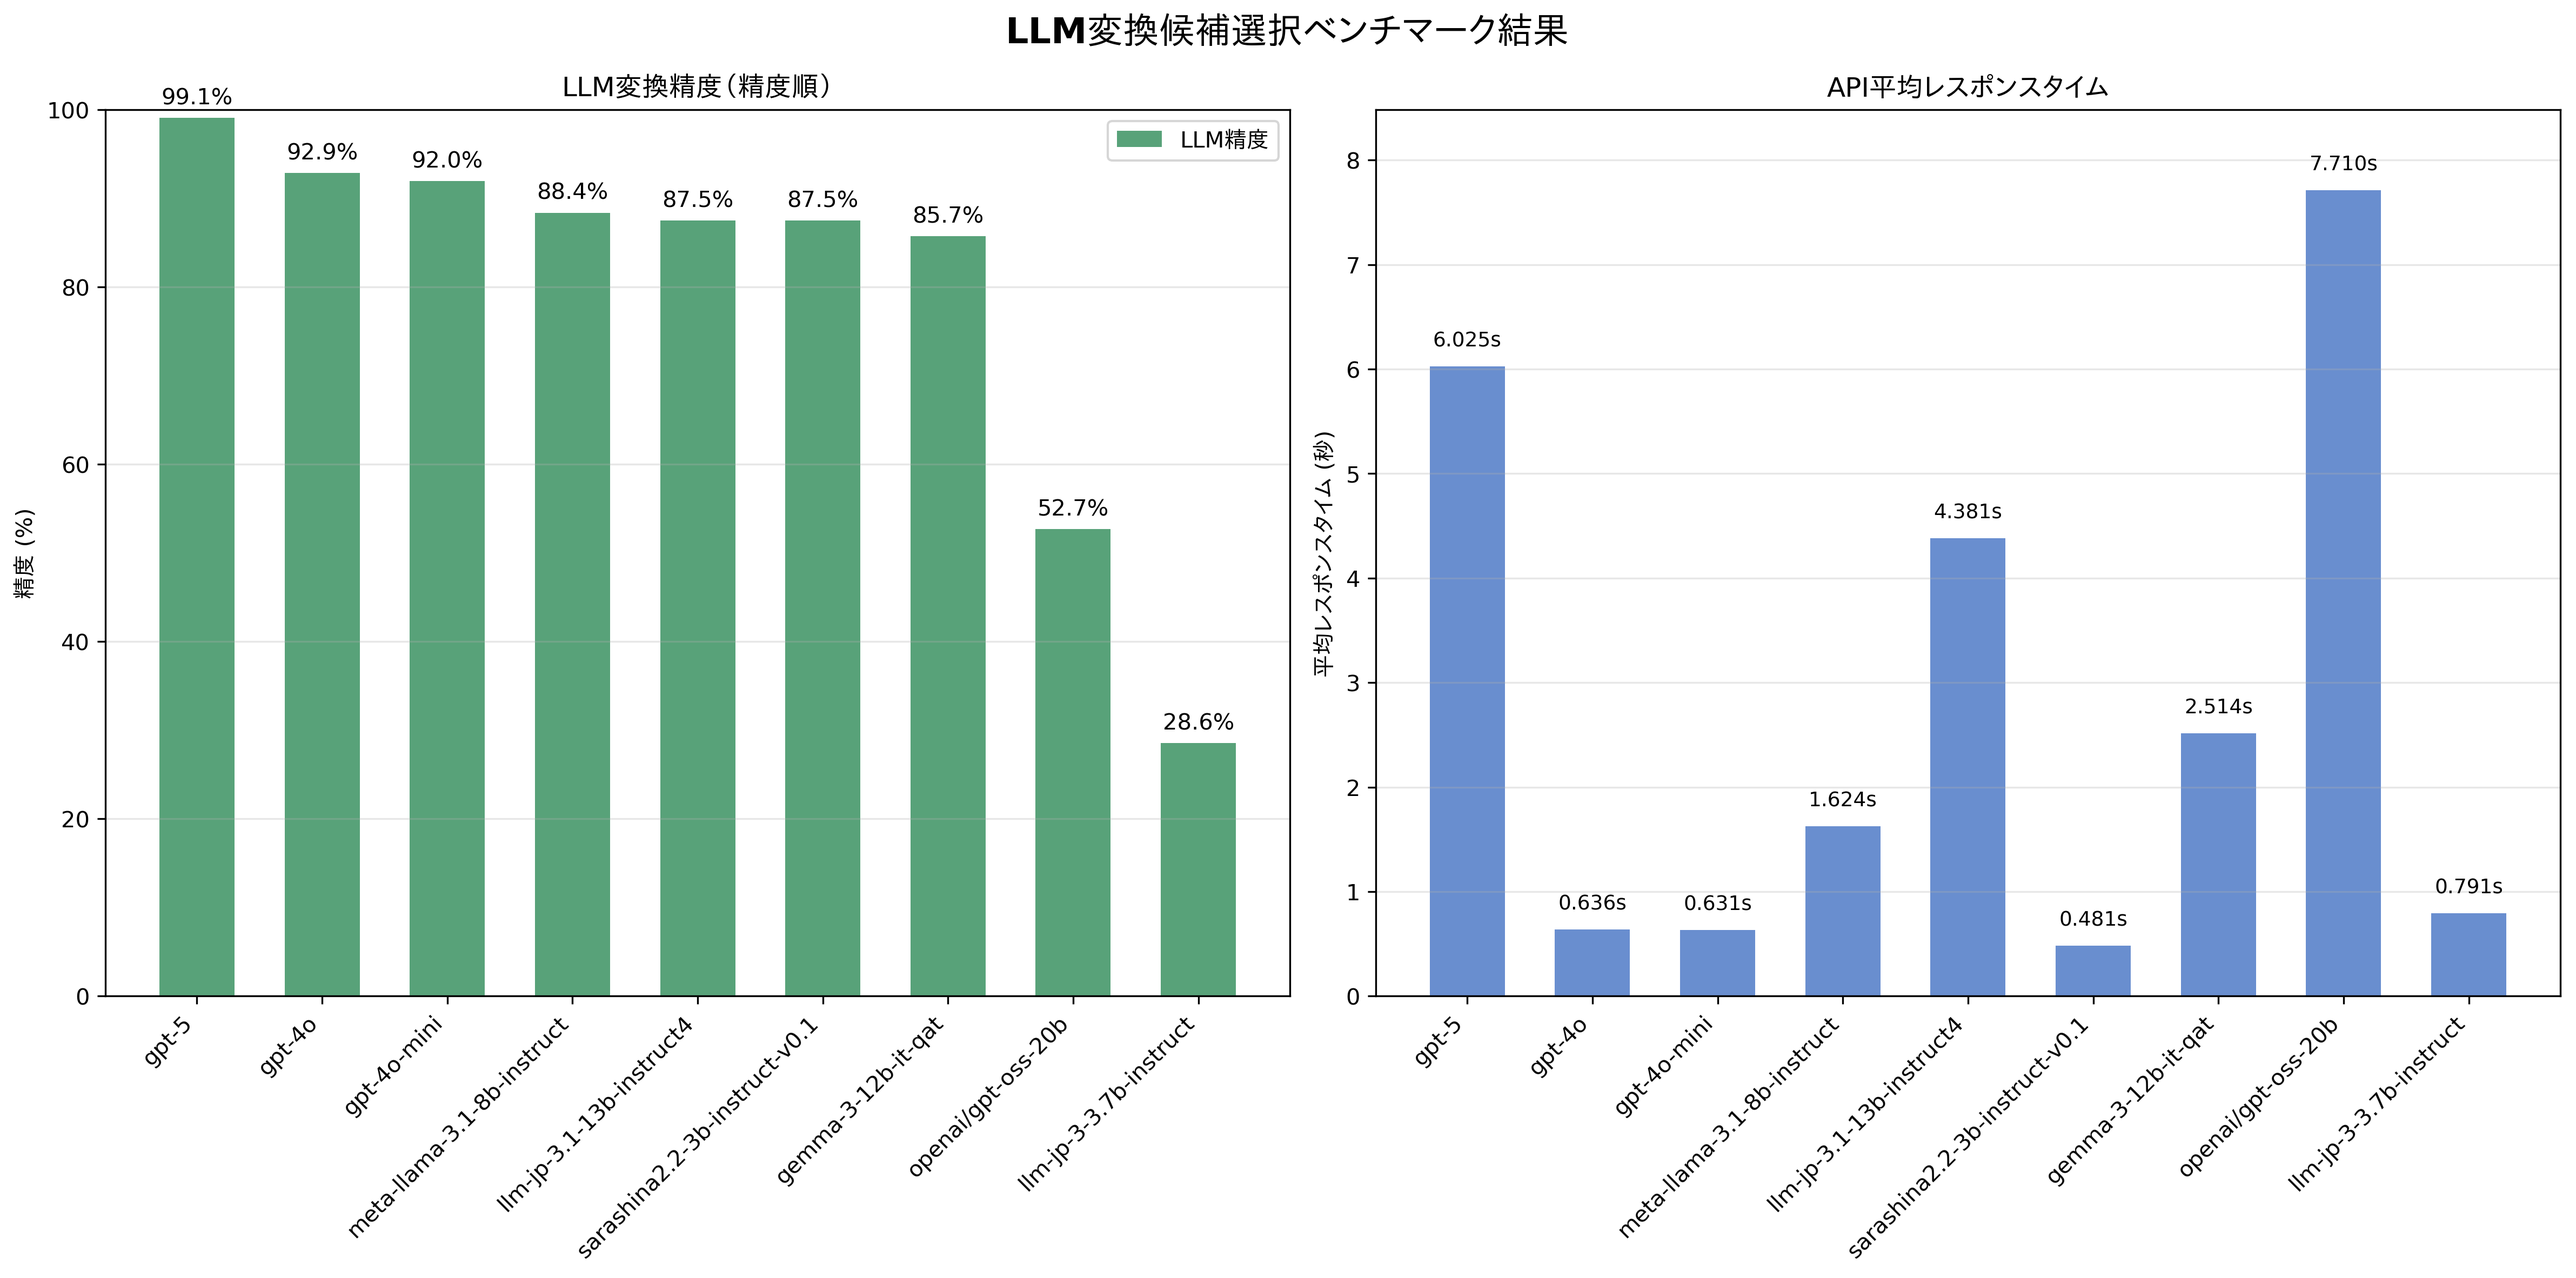
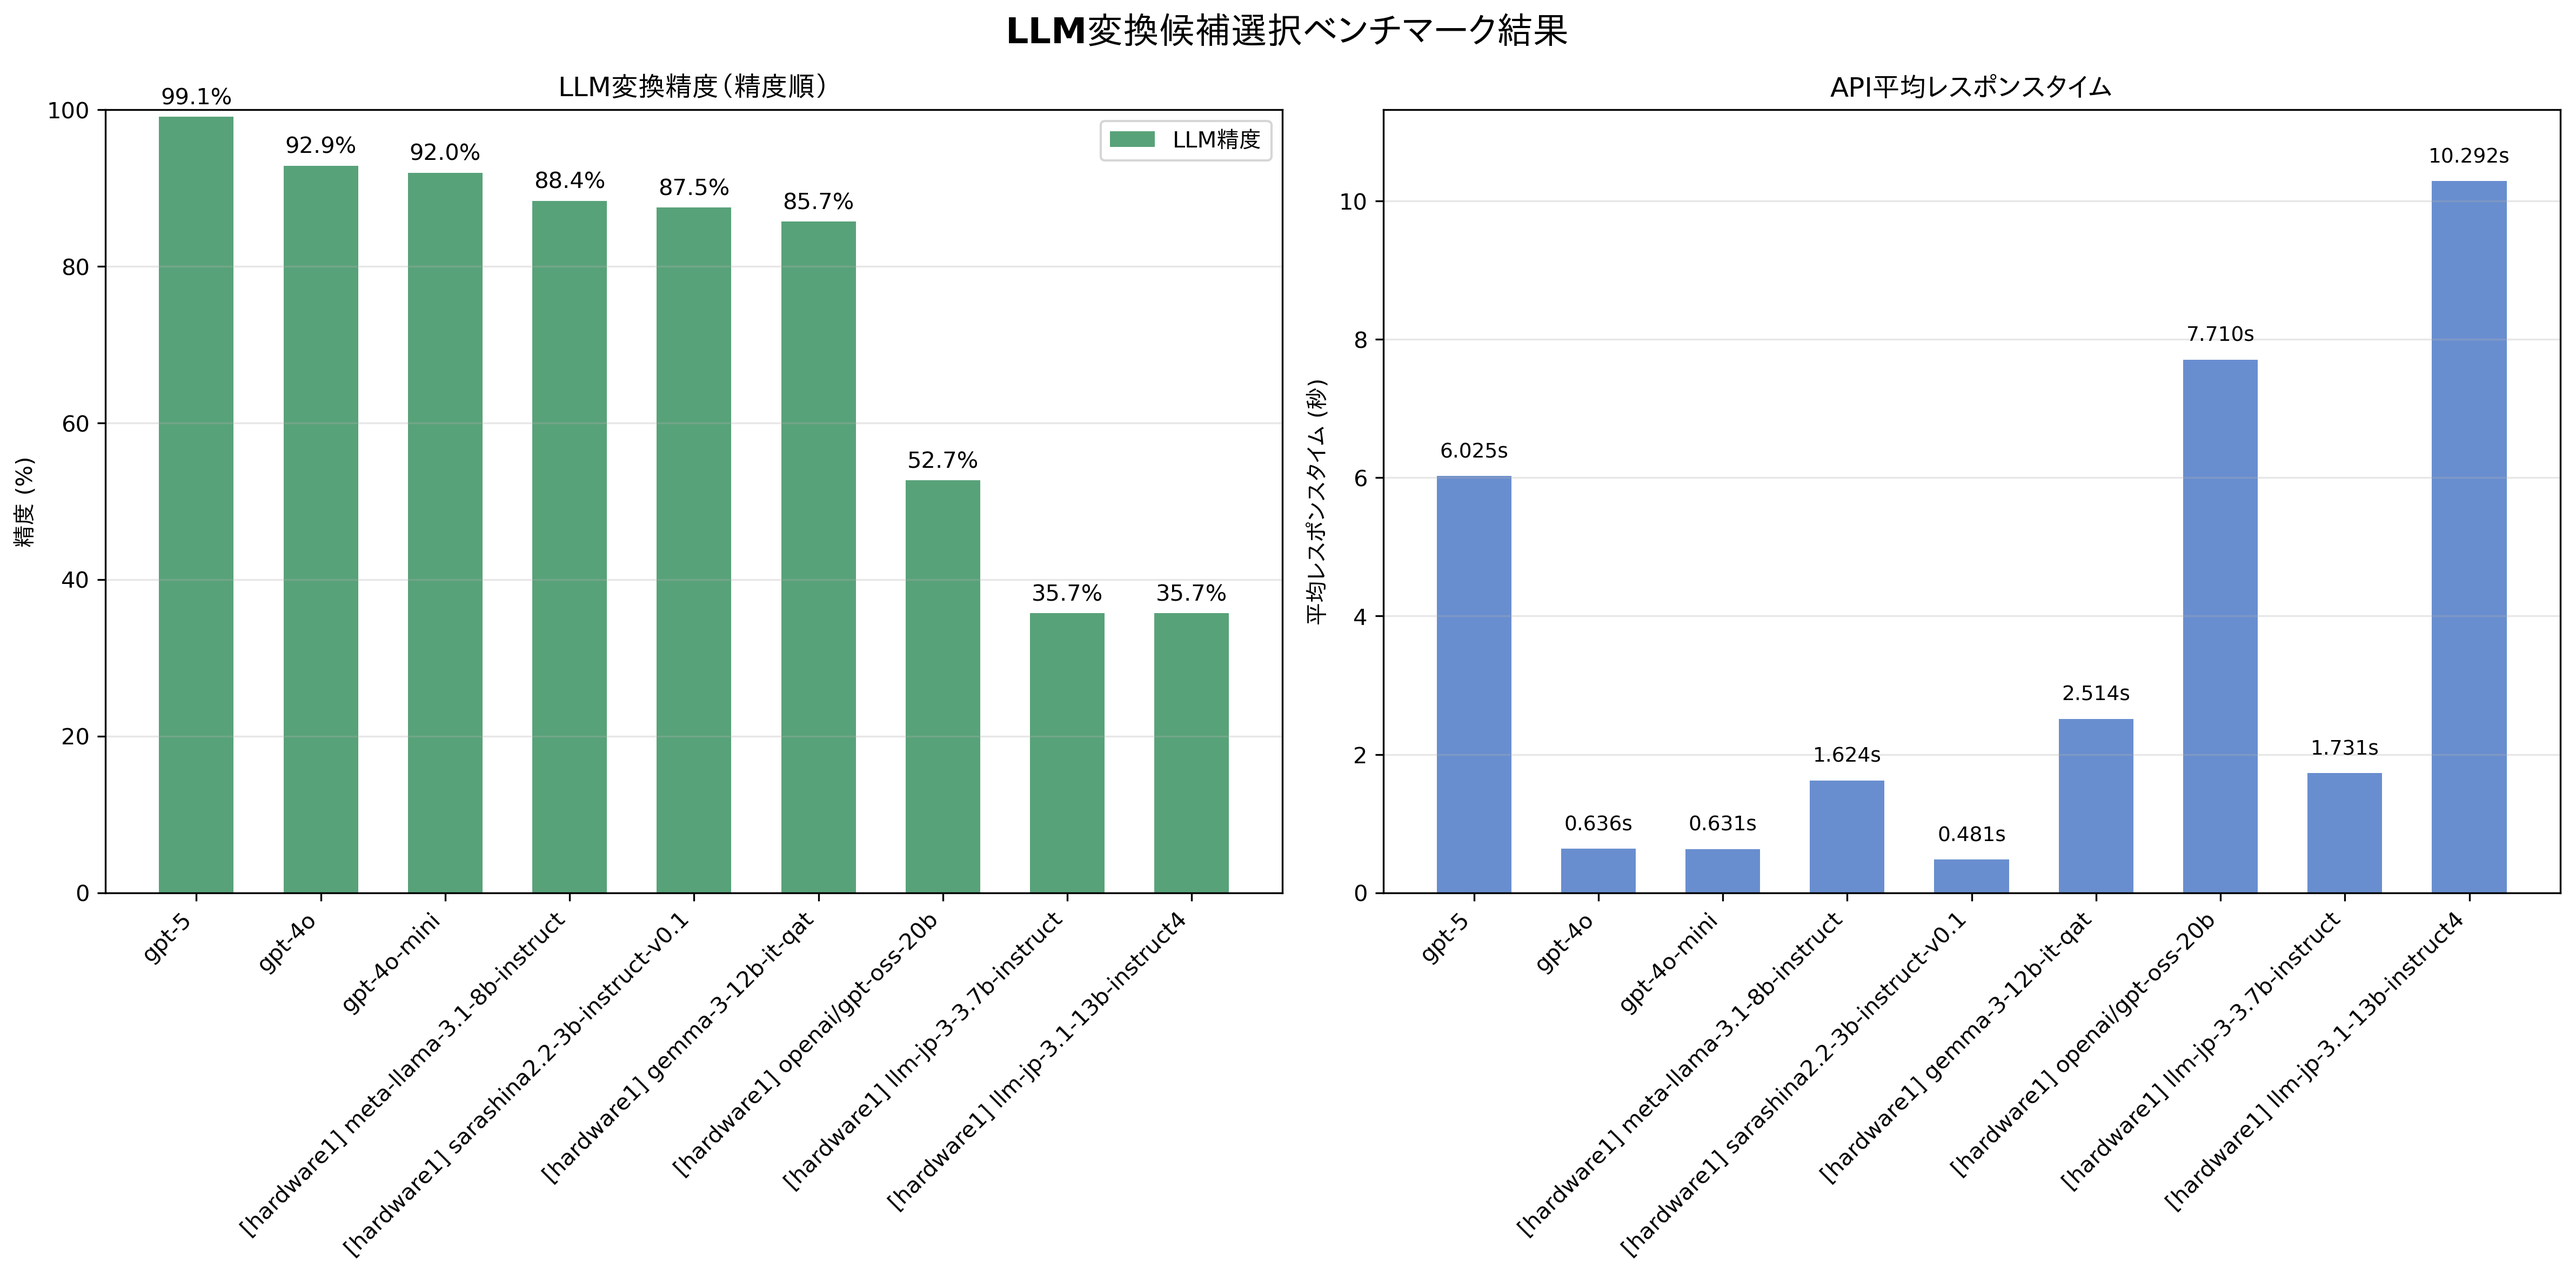
scripts/plot_benchmark_results.pyをresultsの新しいディレクトリ構成に合わせて変更した

diff --git a/benchmark_mozc_conversion_helper/scripts/plot_benchmark_results.py b/benchmark_mozc_conversion_helper/scripts/plot_benchmark_results.py
@@ -19,7 +19,7 @@ plt.rcParams['font.family'] = ['DejaVu Sans', 'Hiragino Sans', 'Yu Gothic', 'Mei
 
 
 def load_benchmark_results(results_dir: str = "results") -> Dict[str, Dict]:
-    """resultsディレクトリからJSONファイルを読み込んで結果を返す"""
+    """resultsディレクトリとそのサブディレクトリからJSONファイルを読み込んで結果を返す"""
     results = {}
     results_path = Path(results_dir)
 
@@ -27,9 +27,10 @@ def load_benchmark_results(results_dir: str = "results") -> Dict[str, Dict]:
         print(f"Results directory '{results_dir}' not found")
         return results
 
-    json_files = list(results_path.glob("*.json"))
+    # results/ 直下とサブディレクトリ（hardware1, hardware2など）からJSONファイルを取得
+    json_files = list(results_path.glob("*.json")) + list(results_path.glob("*/*.json"))
     if not json_files:
-        print(f"No JSON files found in '{results_dir}'")
+        print(f"No JSON files found in '{results_dir}' or its subdirectories")
         return results
 
     for json_file in json_files:
@@ -41,6 +42,10 @@ def load_benchmark_results(results_dir: str = "results") -> Dict[str, Dict]:
             model_name = json_file.stem
             # '--' を '/' に戻す
             display_name = model_name.replace('--', '/')
+
+            # サブディレクトリから読み込んだ場合は、ディレクトリ名をプレフィックスとして追加
+            if json_file.parent.name != results_path.name:
+                display_name = f"[{json_file.parent.name}] {display_name}"
 
             # サマリー情報を抽出
             if 'summary' in data:
